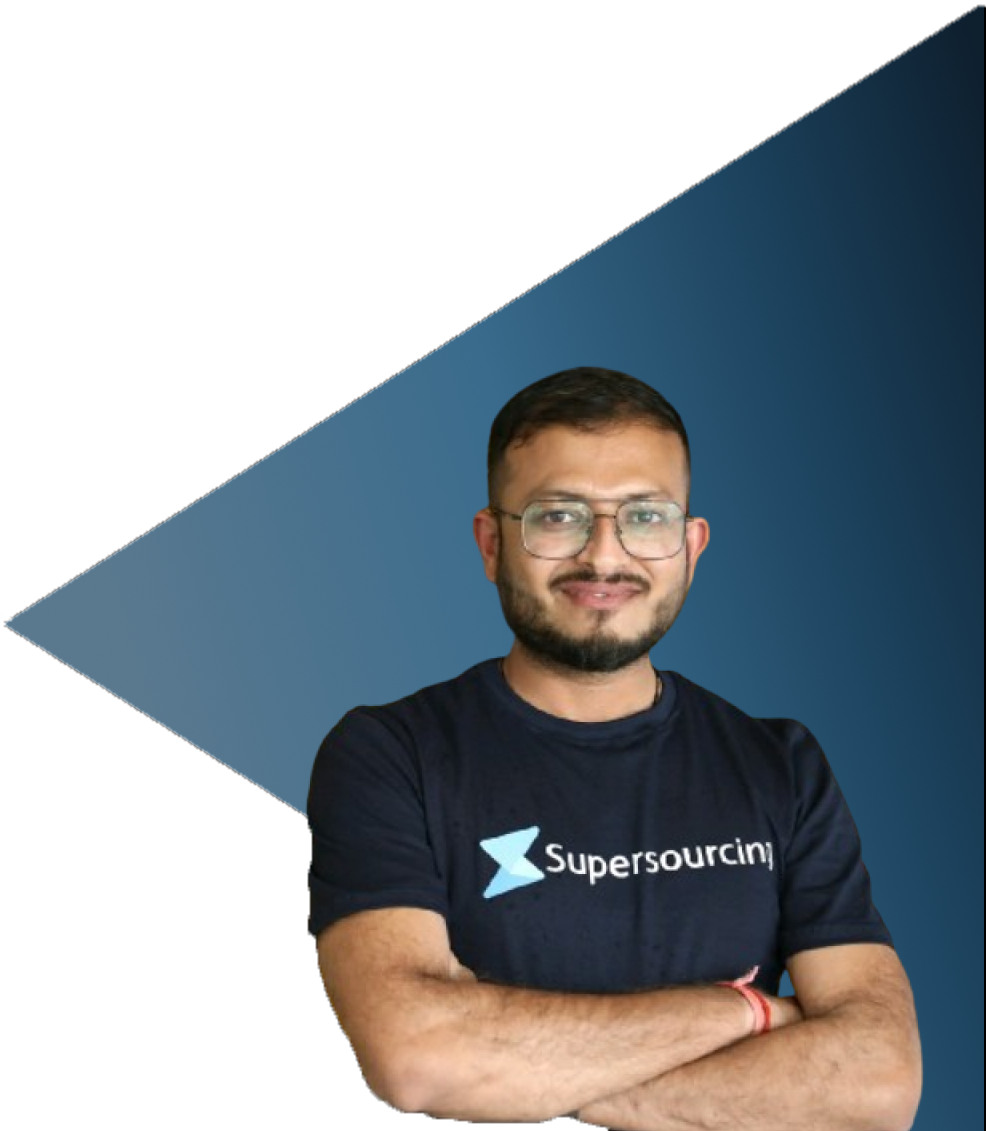
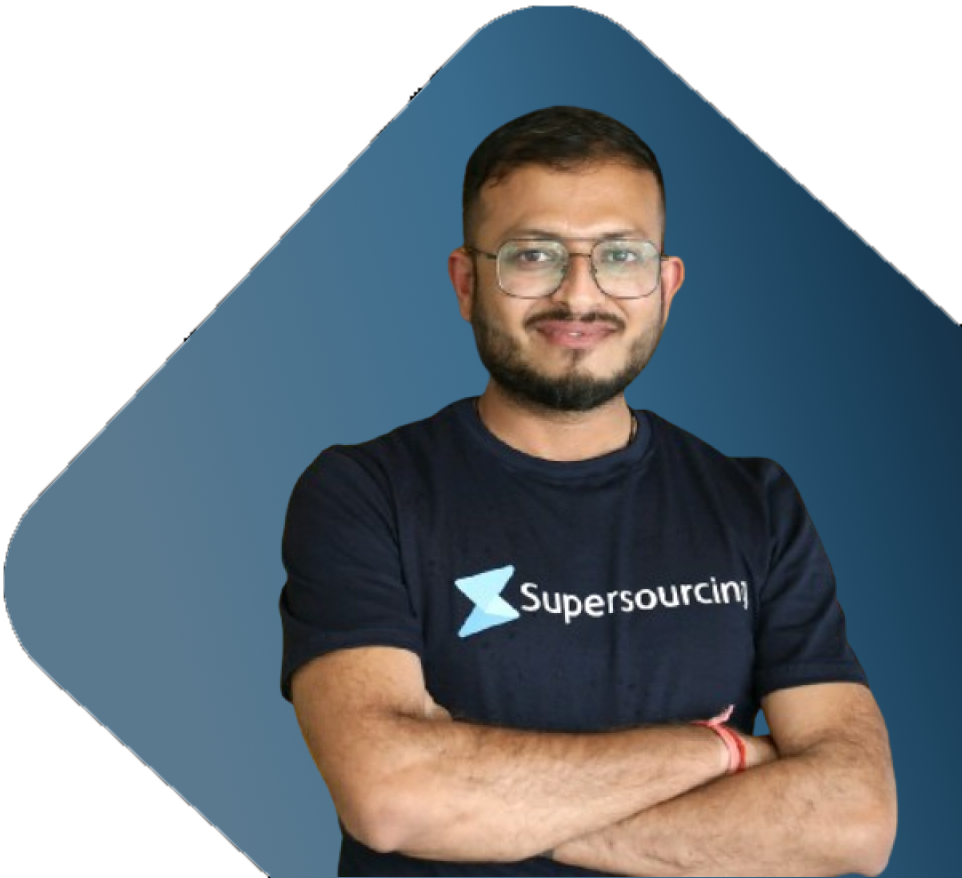
review section mayank

diff --git a/index.html b/index.html
@@ -1,37 +1,54 @@
-<!DOCTYPE html>
-<html>
-<meta name="viewport" content="width=device-width, initial-scale=1.0">
-	<head>
-	  	<title>AshutoshJ Portfolio</title>
-		<link rel="stylesheet" href="mystyle.css">
-	</head>
-	<body>
-		<!-- Navbar -->
-		<ul>
-			<li><a href="index.html">Home</a></li>
-			<li><a href="experience.html">Experience</a></li>
-			<li><a href="education.html">Education</a></li>
-		</ul>
+	<!DOCTYPE html>
+	<html>
+	<meta name="viewport" content="width=device-width, initial-scale=1.0">
+		<head>
+			<title>AshutoshJ Portfolio</title>
+			<link rel="stylesheet" href="mystyle.css">
+		</head>
+		<body>
+			<!-- Navbar -->
+			<ul>
+				<li><a href="index.html">Home</a></li>
+				<li><a href="experience.html">Experience</a></li>
+				<li><a href="education.html">Education</a></li>
+			</ul>
 
-		<!-- Hero Text and Image -->
-		<div class="hero_section">
-			<div class="hero_text">
-				<h1>Ashutosh Jha<br><span class="desig_span" style="color: #1d297a;font-size: 0.75em;">Product Manager</span></h1>
+			<!-- Hero Text and Image -->
+			<div class="hero_section">
+				<div class="hero_text">
+					<h1>Ashutosh Jha<br><span class="desig_span" style="color: #1d297a;font-size: 0.75em;">Product Manager</span></h1>
+				</div>
+				<div class="hero_image"> </div>
+
+			<!-- Intro para -->
+			<div class="intro_lines">
+			Product person with 1.5+ Years of industry experience in Staff Augmentation, Data Analytics & IT industries. Worked on both B2B and B2C side of products with expertise in scaling supply by 2X, demand by 3X and revenue by 5X
+			<!-- <br> <br>	-->
+			<!-- Skilled in team management and enabling team to give their best performance alongside driving the Product from conception to launch along the lines of Product Vision. -->
 			</div>
-			<div class="hero_image"> </div>
 
-		<!-- Intro para -->
-		<div class="intro_lines">
-		Product person with 1.5+ Years of industry experience in Staff Augmentation, Data Analytics & IT industries. Worked on both B2B and B2C side of products with expertise in scaling supply by 2X, demand by 3X and revenue by 5X
-		<!-- <br> <br>	-->
-		<!-- Skilled in team management and enabling team to give their best performance alongside driving the Product from conception to launch along the lines of Product Vision. -->
-		</div>
+			<!-- Scroll down for more -->
+			<div class="scroll_down">↓</div>
 
-		<!-- Scroll down for more -->
-		<div class="scroll_down">↓</div>
-
-		<!-- Reviews -->
-		<div class="reviews_section">
-		</div>
-	</body>
-</html>
+			<!-- Reviews -->
+			<div class="reviews_section">
+				<div class="review_avatar_1"></div>
+				<div style="font-family:Roboto-Regular;
+				color: #d6d6d6;
+				font-size: 8vw;
+				text-align: left;
+				position: absolute;
+				top: 4vw;
+				right: 40vw;
+				left: 5vw;">"</div>
+				<div class="text_review_1">He elevated the performance of the team and product with a Data-Driven Approach. He was a quick learner, open to listening and doing experiments. He tried his best to contribute and make changes for improvement</div>
+				<div style="font-family:Roboto-Regular;
+				color: #d6d6d6;
+				font-size: 8vw;
+				text-align: left;
+				position: absolute;
+				top: 16vw;
+				left: 60vw;">"</div>
+			</div>
+		</body>
+	</html>

diff --git a/mystyle.css b/mystyle.css
@@ -118,11 +118,37 @@ font-size: 0.75em;
 
 .reviews_section
 {
-  background-color: #08040c;
+  background-image: url(review_bg.png);
   top: 100%;
-  width: 100vw;
-  height: 30vw;
+  width: 100%;
+  height: 60%;
   position: absolute;
+  background-size: contain;
+  background-repeat: no-repeat;
+}
+
+.review_avatar_1
+{
+  background-image: url(mayank_review_avatar_2.png);
+  position: absolute;
+  background-repeat: no-repeat;
+  background-size: cover;
+  width: 25.75vw;
+  height: 25.75vw;
+  right: 0;
+}
+
+
+.text_review_1
+{
+  font-family: "Roboto-Light";
+  color: #d6d6d6;
+  font-size: 2vw;
+  text-align: left;
+  position: absolute;
+  top: 8vw;
+  right: 40vw;
+  left: 10vw;
 }
 
 
